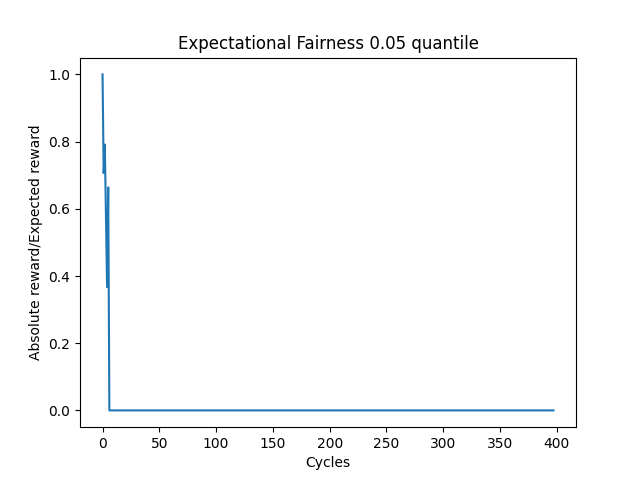
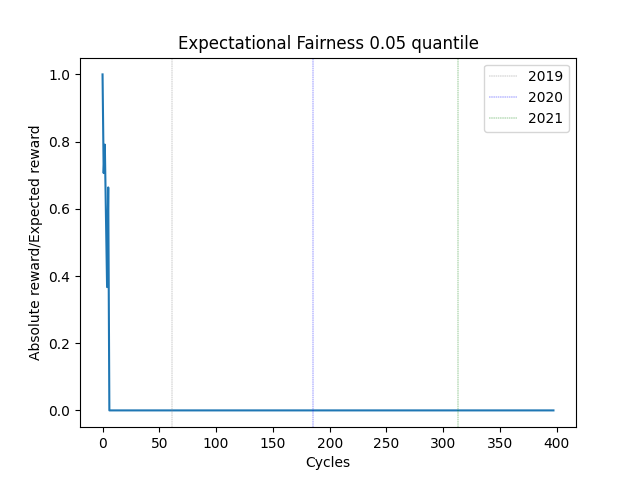
Cleanup Code

Changed region(s): [[0.8125, 0.125, 0.9062, 0.2812], [0.75, 0.1875, 0.7812, 0.25]]

diff --git a/tezos_analysis.py b/tezos_analysis.py
@@ -1,7 +1,5 @@
 import sqlite3
 import numpy as np
-from scipy.integrate import simps
-from numpy import trapz
 import matplotlib.pyplot as plt
 
 DB_FILE = '/home/anjakoller/tezos_dataextraction_merged_alltables.db'
@@ -350,6 +348,10 @@ def plot_expectational_fairness_average_without_highest5(cycle_total_reward_dict
     plt.plot(x_data, y_data, color='red')
     plt.plot()
     plt.xlabel('Cycle')
+    plt.axvline(61, 0, 1, label='2019', color='grey', linewidth=0.3, linestyle='--')
+    plt.axvline(185, 0, 1, label='2020', color='blue', linewidth=0.3, linestyle='--')
+    plt.axvline(313, 0, 1, label='2021', color='green', linewidth=0.3, linestyle='--')
+    plt.legend()
     plt.ylabel('Absolute reward/Expected reward')
     plt.title('Expectational Fairness without highest 5 percent')
     plt.savefig('images/expectational_fairness/exp_fairness_avg_without_highest5.png')
@@ -496,7 +498,6 @@ def plot_expectational_fairness_all_bakers_all_cycles(expectational_fairness_lis
     plt.axvline(61, 0, 1, label='2019', color='grey', linewidth=0.3, linestyle='--')
     plt.axvline(185, 0, 1, label='2020', color='blue', linewidth=0.3, linestyle='--')
     plt.axvline(313, 0, 1, label='2021', color='green', linewidth=0.3, linestyle='--')
-    plt.xlabel('Cycle')
     plt.legend()
     plt.ylabel('Absolute reward/Expected reward')
     plt.title('Expectational Fairness for all cycles and all bakers')
@@ -526,6 +527,10 @@ def plot_expectational_fairness_x_quantile(x, cycle_total_reward_dict, baker_ini
     plt.plot(x_data, y_data)
     plt.title('Expectational Fairness ' + str(x) + ' quantile')
     plt.xlabel('Cycles')
+    plt.axvline(61, 0, 1, label='2019', color='grey', linewidth=0.3, linestyle='--')
+    plt.axvline(185, 0, 1, label='2020', color='blue', linewidth=0.3, linestyle='--')
+    plt.axvline(313, 0, 1, label='2021', color='green', linewidth=0.3, linestyle='--')
+    plt.legend()
     plt.ylabel('Absolute reward/Expected reward')
     plt.savefig('images/expectational_fairness/exp_fairness_quantile_' + str(x) + '.png')
     plt.close()
@@ -535,10 +540,6 @@ def plot_exp_fairness_overview(cycle_total_reward_dict, baker_initial_cycle_dict
                                baker_initial_reward_dict, cycle_list_of_active_bakers_dict):
     """avg, 5% quantile, 95% quantile and median in one plot"""
     x_data = list(range(0, 398))
-    #y1_data = compute_expectational_fairness_avg(cycle_total_reward_dict, baker_initial_cycle_dict,
-    #                                             baker_initial_reward_dict,
-    #                                             cycle_list_of_active_bakers_dict)
-    #plt.plot(x_data, y1_data, label='Avg')
     y2_data = compute_expectational_fairness_x_quantile(0.05, cycle_total_reward_dict, baker_initial_cycle_dict,
                                                         baker_initial_reward_dict, cycle_list_of_active_bakers_dict)
     plt.plot(x_data, y2_data, label='5% quantile')
@@ -551,6 +552,10 @@ def plot_exp_fairness_overview(cycle_total_reward_dict, baker_initial_cycle_dict
     plt.title('Expectational Fairness Overview')
     plt.legend()
     plt.xlabel('Cycles')
+    plt.axvline(61, 0, 1, label='2019', color='grey', linewidth=0.3, linestyle='--')
+    plt.axvline(185, 0, 1, label='2020', color='blue', linewidth=0.3, linestyle='--')
+    plt.axvline(313, 0, 1, label='2021', color='green', linewidth=0.3, linestyle='--')
+    plt.legend()
     plt.ylabel('Absolute reward/Expected reward')
     plt.savefig('images/expectational_fairness/exp_fairness_overview_without_avg.png')
     plt.close()
@@ -803,6 +808,10 @@ def plot_nakamoto_index(start, end):
     y_data = compute_nakamoto_index(start, end, False)
     plt.plot(x_data, y_data)
     plt.xlabel('Cycle')
+    plt.axvline(61, 0, 1, label='2019', color='grey', linewidth=0.3, linestyle='--')
+    plt.axvline(185, 0, 1, label='2020', color='blue', linewidth=0.3, linestyle='--')
+    plt.axvline(313, 0, 1, label='2021', color='green', linewidth=0.3, linestyle='--')
+    plt.legend()
     plt.ylabel('Percentage of bakers to reach > 50%')
     plt.title('Nakamoto Index for each cycle from ' + str(start) + ' to ' + str(end))
     plt.savefig('images/Nakamoto_index' + str(start) + '_' + str(end) + '.png')
@@ -829,6 +838,10 @@ def plot_nakamoto_index_num_bakers(start, end):
     y_data = compute_nakamoto_index(start, end, False)
     plt.plot(x_data, y_data, '.')
     plt.xlabel('Number of Bakers (Cycle)')
+    plt.axvline(61, 0, 1, label='2019', color='grey', linewidth=0.3, linestyle='--')
+    plt.axvline(185, 0, 1, label='2020', color='blue', linewidth=0.3, linestyle='--')
+    plt.axvline(313, 0, 1, label='2021', color='green', linewidth=0.3, linestyle='--')
+    plt.legend()
     plt.ylabel('Percentage of bakers to reach > 50%')
     plt.title('Nakamoto Index for each cycle from ' + str(start) + ' to ' + str(end))
     plt.savefig('images/Nakamoto_index_num_bakers' + str(start) + '_' + str(end) + '.png')
@@ -912,6 +925,10 @@ def plot_distance_to_mean(start, end):
             plt.plot(c, baker, '.')  # for every baker in the cycle make a '.'
     plt.legend()
     plt.xlabel('Cycle')
+    plt.axvline(61, 0, 1, label='2019', color='grey', linewidth=0.3, linestyle='--')
+    plt.axvline(185, 0, 1, label='2020', color='blue', linewidth=0.3, linestyle='--')
+    plt.axvline(313, 0, 1, label='2021', color='green', linewidth=0.3, linestyle='--')
+    plt.legend()
     plt.ylabel('Relative distance of total_reward to mean')
     plt.title('Relative Distance to Mean per Cycle from ' + str(start) + ' to ' + str(end))
     plt.savefig('images/income_distance_' + str(start) + '_' + str(end) + '.png')
@@ -937,6 +954,10 @@ def plot_median_and_avg_reward(start, end):
     plt.plot(x_data, y2_data, label='Mean')
     plt.legend()
     plt.xlabel('Cycle')
+    plt.axvline(61, 0, 1, label='2019', color='grey', linewidth=0.3, linestyle='--')
+    plt.axvline(185, 0, 1, label='2020', color='blue', linewidth=0.3, linestyle='--')
+    plt.axvline(313, 0, 1, label='2021', color='green', linewidth=0.3, linestyle='--')
+    plt.legend()
     plt.ylabel('Rewards')
     plt.title('Mean and Avg rewards per Cycle from ' + str(start) + ' to ' + str(end))
     plt.savefig('images/mean_avg_rewards_' + str(start) + '_' + str(end) + '.png')
@@ -996,7 +1017,6 @@ if __name__ == '__main__':
     plot_histogram_5cycles_baker_rewards()
 
     # Compute median and avg reward for all cycles in a plot
-    plot_median_and_avg_reward(0, 6)
     plot_median_and_avg_reward(0, 398)
 
     # Plot gini indexes of baker rewards for each era
@@ -1007,6 +1027,7 @@ if __name__ == '__main__':
         plot_gini_indexes_rewards_all_bakers_per_cycle(start, end)
 
     # Baker rewards per era
+    # commented out as it takes long
     # cycle_names = ['Athens', 'Babylon', 'Carthage', 'Delphi', 'Edo']
     # for start, end, cycle_name in zip(start_cycles, end_cycles, cycle_names):
     #     plot_era_baker_reward(start, end, cycle_name)
@@ -1036,8 +1057,6 @@ if __name__ == '__main__':
                                                                   baker_initial_reward_dict,
                                                                   cycle_list_of_active_bakers_dict)
 
-
-    #print('HIGHEST 5 BAKERS')
     highest5_bakers_flattened = [item for sublist in highest5_bakers for item in sublist]
     highest5_flatten_no_duplicates = list(dict.fromkeys(highest5_bakers_flattened))
     print(highest5_flatten_no_duplicates)
@@ -1067,7 +1086,6 @@ if __name__ == '__main__':
                                                               cycle_list_of_active_bakers_dict)  # average over all bakers in each cycle
 
     # expectational fairness at individual cycles for all bakers, look at cycles in each era
-    # TODO: note if there are differences among the eras, compare several cycles in different eras
     era_cycles = [50, 130, 200, 250, 300, 340, 370, 395]
     for cycle in era_cycles:
         plot_expectational_fairness_onecycle(cycle, cycle_total_reward_dict, baker_initial_cycle_dict,
@@ -1075,22 +1093,18 @@ if __name__ == '__main__':
 
     # Robust fairness (we fix delta and a specific cycle and find epsilon) Note: for robust fairness cycles higher
     # than 6 we have very high EPS values and therefore plots look wrong at first sight
-    #plot_robust_fairness_old(6)
-    #plot_robust_fairness_old(50)
-    plot_robust_fairness(50)
     plot_robust_fairness(6)
     # plot a robust fairness for every era (one cycle in each era)
     for c in era_cycles:
         plot_robust_fairness(c)
 
     # Area under curve robust fairness
-    # TODO: comment this out as it takes long
+    # commented out as it takes long
     # plot_robust_fairness_aoc(0, 5)  # works for every cycle (for initial value we take the value in prev. cycle)
     # plot_robust_fairness_aoc(0, 398)
 
     # Compute mean reward plot, i.e. cycles on x axis, percentage of total reward on y axis, plot a line with the mean
     # reward over all bakers in red and the relative rewards for all bakers per cycle on the y axis
-    # TODO: eventually or detect the bakers that have a too big distance
     plot_distance_to_mean(0, 8)
     plot_distance_to_mean(0, 398)
 
@@ -1101,7 +1115,6 @@ if __name__ == '__main__':
     plot_nakamoto_index_onethird(0, 398)
 
     # Nakamoto index with num bakers in network on x axis
-    plot_nakamoto_index_num_bakers(0, 8)
     plot_nakamoto_index_num_bakers(0, 398)
 
     # Close connection
